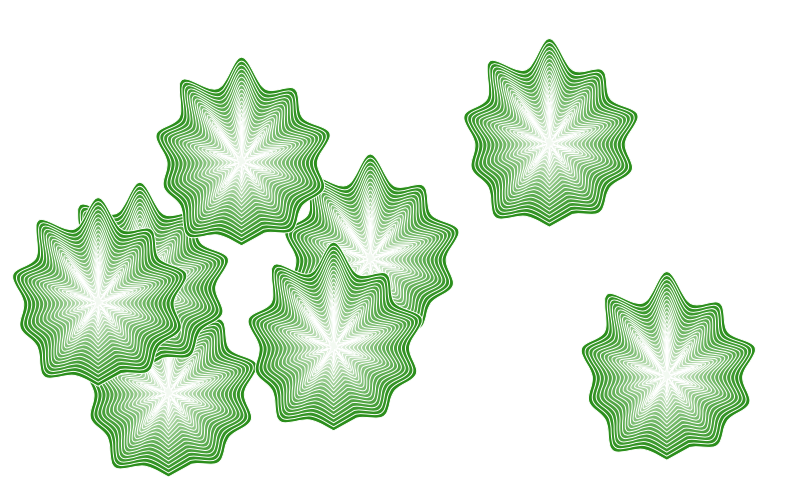
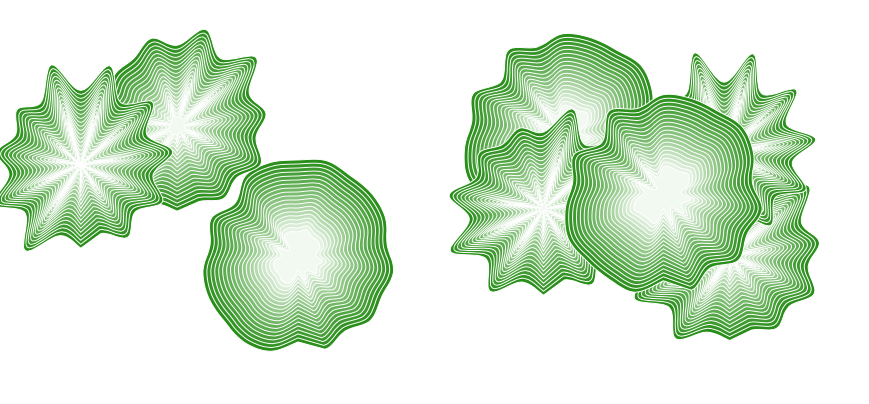
vary the spokes

diff --git a/p5/cross_sections/lotus_leaves/lotus.js b/p5/cross_sections/lotus_leaves/lotus.js
@@ -48,7 +48,7 @@ class CrossSec{
     }
     
     display() {
-        let mynoiseseed=random(1000);
+        let mynoiseseed=random(60);
         let dist=floor(this.r/this.n)
         for (let j=0;j<this.n; j++){
             //repeat light to dark color gradation
@@ -57,16 +57,17 @@ class CrossSec{
             push()
             fill(interC);
             translate(this.x, this.y);
-            for (let i=0;i<20;i++) {
+            let spokes=22;
+            for (let i=0;i<spokes;i++) {
                 if (i%2==0) {
                 radius= map(noise(this.r), 0, 1, 18, 128) + 
-                    map((noise(i/5)),0,1,10,80) - dist * j;}
+                    map((noise(i/5+mynoiseseed/100)),0,1,10,80) - dist * j;}
                     else {
-                      radius= map(noise(this.r), 0, 1, 18, 88) + 
+                      radius= map(noise(this.r+mynoiseseed), 0, 1, 18, 88) + 
                     map((noise(i/5)),0,1,30,40) - dist * j;}
                 stroke(255);
-                let x=sin((18*i)) ;
-                let y=cos((18*i)) ;
+                let x=sin((360/spokes*i)) ;
+                let y=cos((360/spokes*i)) ;
                
                
                 curveVertex(radius*x, radius*y);
@@ -74,7 +75,7 @@ class CrossSec{
             }
             endShape(CLOSE);
             pop();
-           
+           noLoop();
             }
         }
 }
